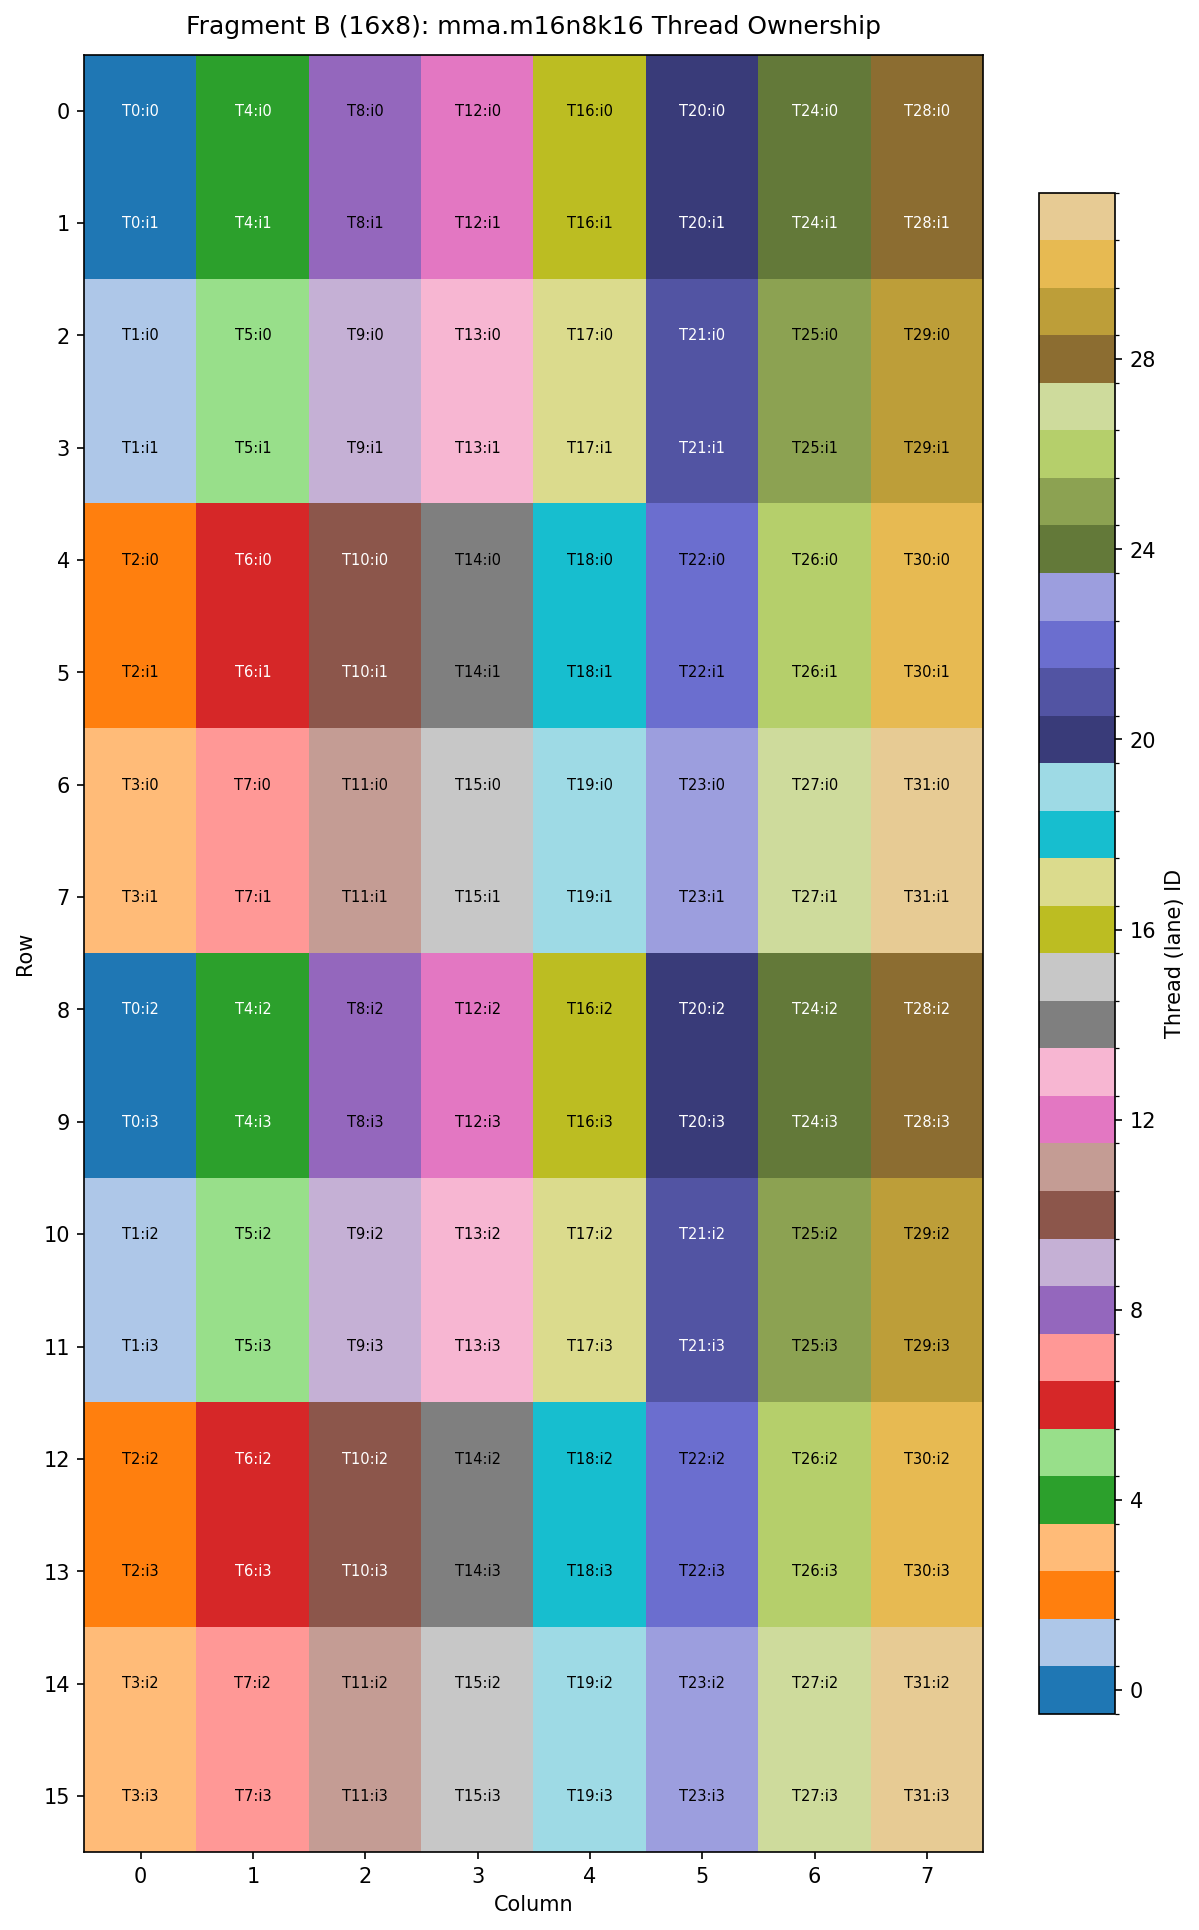
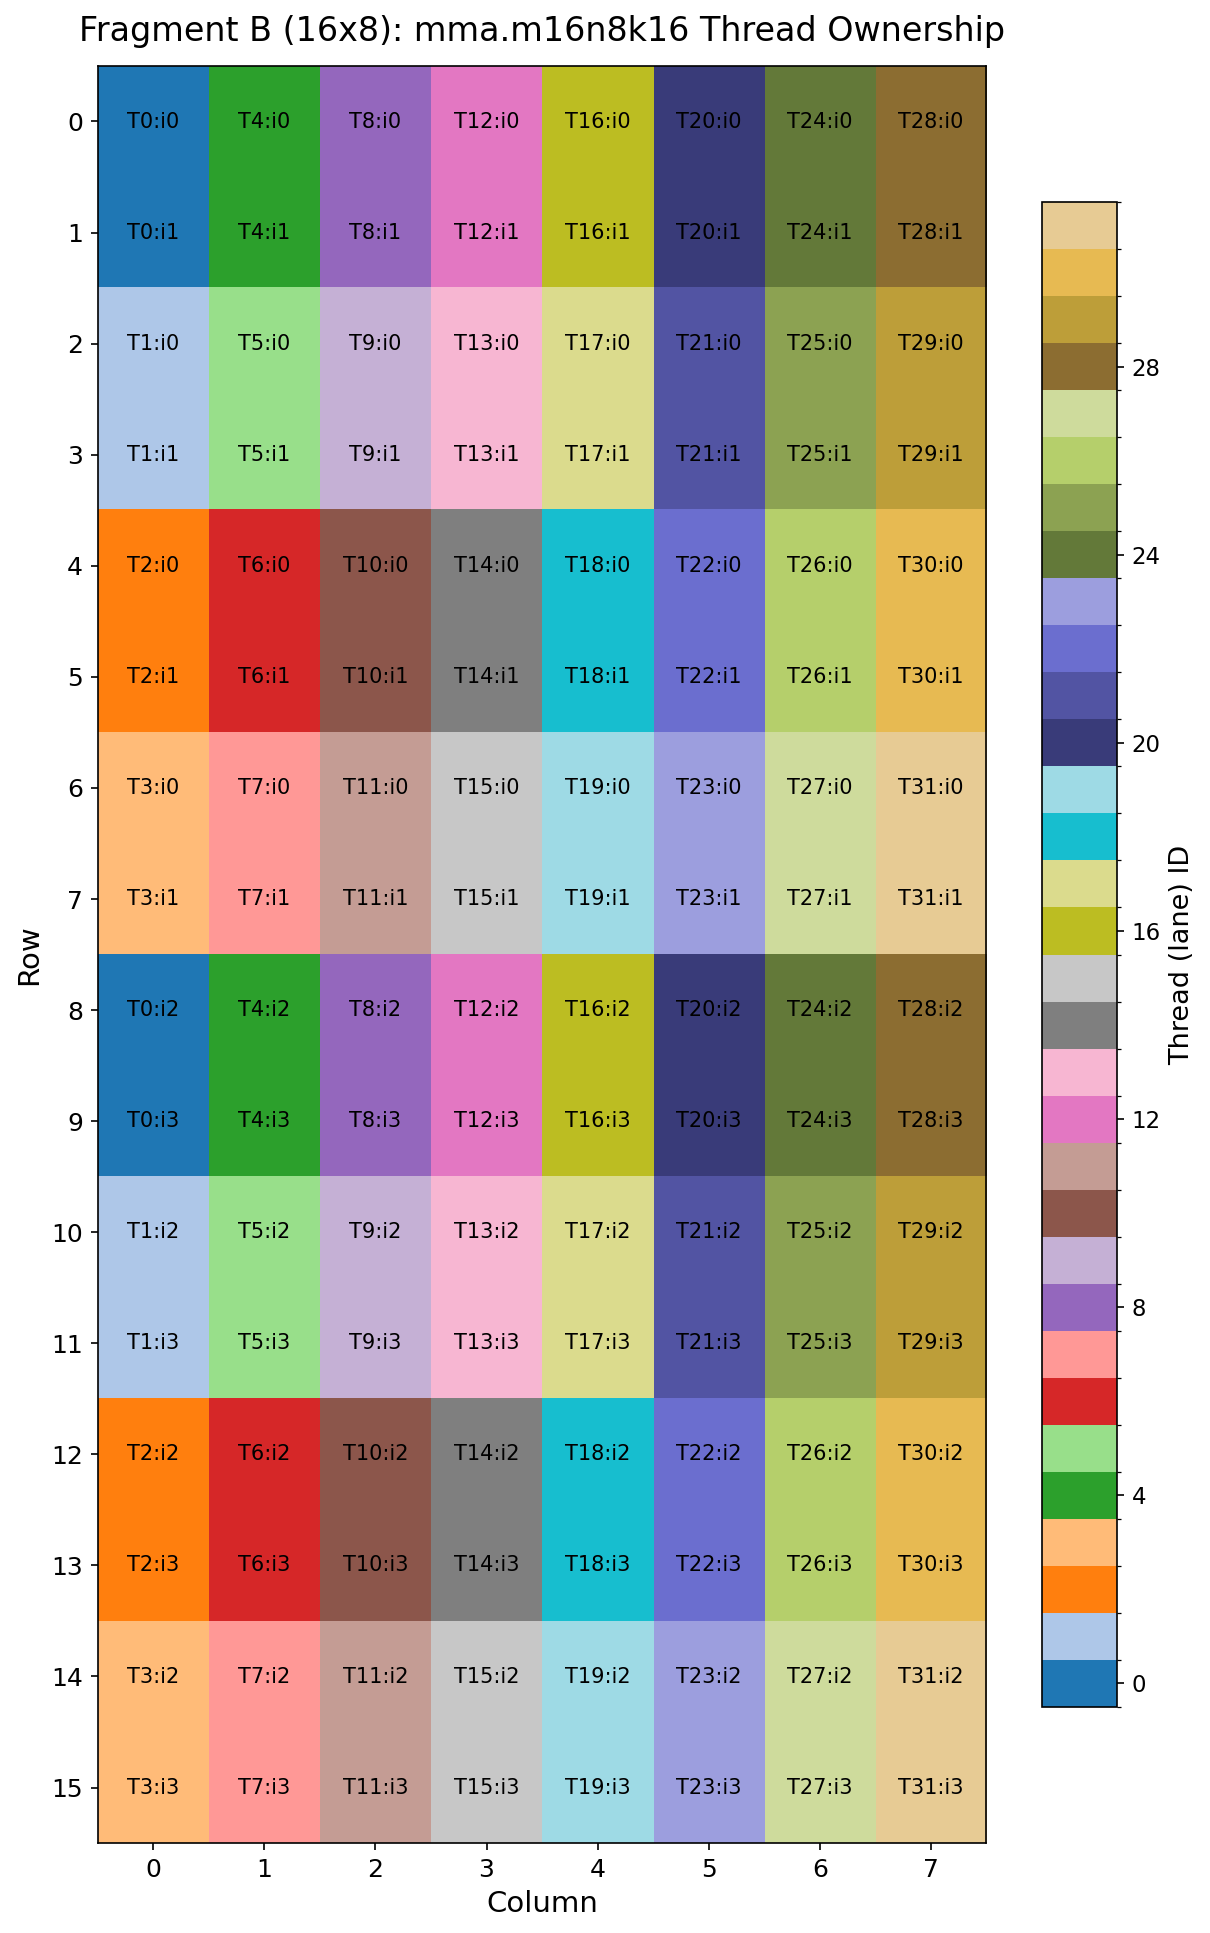
update figures

diff --git a/scripts/plot_registers.py b/scripts/plot_registers.py
@@ -51,17 +51,17 @@ def draw_reg_table(ax, title, subtitle, reg_labels):
 
     # Title
     ax.text(5, 1.2, title, ha="center", va="center",
-            fontsize=11, fontweight="bold")
+            fontsize=14, fontweight="bold")
     ax.text(5, 0.6, subtitle, ha="center", va="center",
-            fontsize=8, fontstyle="italic", color="0.35")
+            fontsize=10, fontstyle="italic", color="0.35")
 
     header_y = -0.1
     ax.text(1.5, header_y, "Register", ha="center", va="center",
-            fontsize=8, fontweight="bold")
+            fontsize=10, fontweight="bold")
     ax.text(4.5, header_y, "lo 16 bits (i even)", ha="center", va="center",
-            fontsize=8, fontweight="bold")
+            fontsize=10, fontweight="bold")
     ax.text(7.5, header_y, "hi 16 bits (i odd)", ha="center", va="center",
-            fontsize=8, fontweight="bold")
+            fontsize=10, fontweight="bold")
 
     colors = ["#e8f4fd", "#ffffff"]
     for idx, (reg_name, lo, hi) in enumerate(reg_labels):
@@ -76,11 +76,11 @@ def draw_reg_table(ax, title, subtitle, reg_labels):
         ax.add_patch(rect)
 
         ax.text(1.5, y, reg_name, ha="center", va="center",
-                fontsize=9, fontweight="bold", family="monospace")
+                fontsize=11, fontweight="bold", family="monospace")
         ax.text(4.5, y, lo, ha="center", va="center",
-                fontsize=8.5, family="monospace")
+                fontsize=10, family="monospace")
         ax.text(7.5, y, hi, ha="center", va="center",
-                fontsize=8.5, family="monospace")
+                fontsize=10, family="monospace")
 
 
 def main():

diff --git a/scripts/plot_fragments.py b/scripts/plot_fragments.py
@@ -98,21 +98,19 @@ def plot_fragment(thread_map, elem_map, title, out_path):
             lane = thread_map[r, c]
             idx = elem_map[r, c]
             label = f"T{lane}:i{idx}"
-            # rough luminance check for text contrast
-            rgba = cmap(norm(lane))
-            lum = 0.299 * rgba[0] + 0.587 * rgba[1] + 0.114 * rgba[2]
-            color = "white" if lum < 0.45 else "black"
             ax.text(c, r, label, ha="center", va="center",
-                    fontsize=7, fontweight="medium", color=color)
+                    fontsize=10, fontweight="medium", color="black")
 
     ax.set_xticks(range(cols))
     ax.set_yticks(range(rows))
-    ax.set_xlabel("Column")
-    ax.set_ylabel("Row")
-    ax.set_title(title, fontsize=12, pad=10)
+    ax.set_xlabel("Column", fontsize=14)
+    ax.set_ylabel("Row", fontsize=14)
+    ax.tick_params(labelsize=12)
+    ax.set_title(title, fontsize=16, pad=12)
 
     cbar = plt.colorbar(im, ax=ax, ticks=range(0, 32, 4), shrink=0.8)
-    cbar.set_label("Thread (lane) ID")
+    cbar.set_label("Thread (lane) ID", fontsize=13)
+    cbar.ax.tick_params(labelsize=11)
 
     plt.tight_layout()
     fig.savefig(out_path, dpi=150, bbox_inches="tight")
